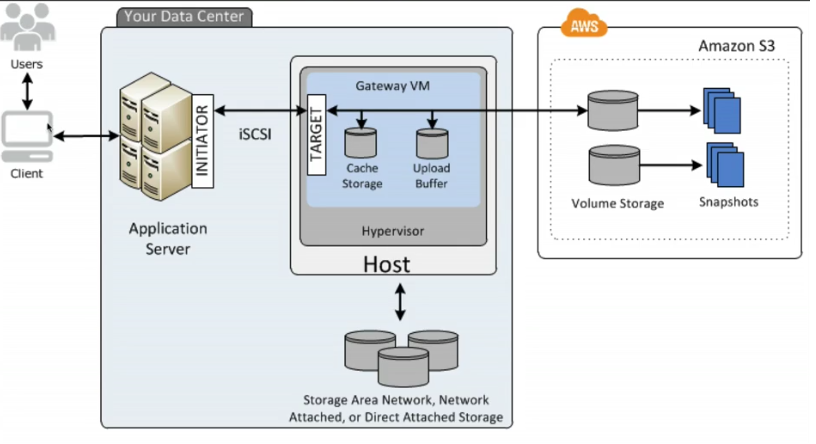
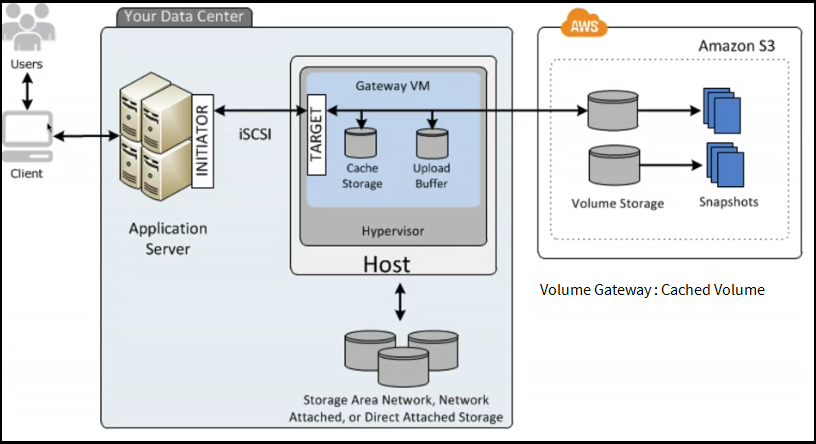
readme++

Changed region(s): [[0.0, 0.0, 1.0, 1.0], [0.6434, 0.6441, 0.9498, 0.6734]]

diff --git a/README.md b/README.md
@@ -1,6 +1,6 @@
 ![](https://github.com/inbravo/aws-feature-set/blob/master/mind-maps/aws-all-services/aws-core-dimensions.jpg)
 
-# Core AWS Dimensions
+# AWS Reference
 
 - **Security & Identity**
 	-	[**IAM**](https://github.com/inbravo/aws-feature-set#-iam--identity--access-management) : How you setup and assign users / groups etc
@@ -406,13 +406,13 @@ The following are examples of problems that can cause instance status checks to 
 - The virtual appliance will asynchronously replicate information up to S3 or Glacier
 - Can be downloaded as a VM  VMware ESXi / Hyper-V
 
-### Storage Gateway Type : File Gateway (NFS) 
+#### File Gateway (**NFS**) 
 - Store files in S3  Word, Pictures, PDFs
 - Accessed using network file system (NFS)
 
-![](https://github.com/inbravo/aws-feature-set/blob/master/images/aws/file-gateway.png) 
+![](https://github.com/inbravo/aws-feature-set/blob/master/images/cloudguru/file-gateway.png) 
 
-### Storage Gateway Type : Volume Gateway (**iSCSI**) 
+#### Volume Gateway (**iSCSI**) 
 - Block based storage
 - Presents applications with disk volumes using iSCSI protocol
 - They take virtual hard disks on premise and back them up to virtual hard disks on AWS
@@ -428,10 +428,10 @@ The following are examples of problems that can cause instance status checks to 
 ![](https://github.com/inbravo/aws-feature-set/blob/master/images/cloudguru/volume-gateway.png) 
 ![](https://github.com/inbravo/aws-feature-set/blob/master/images/cloudguru/volume-gateway-cached.png) 
 	
-### Storage Gateway Type : Volume Tape Gateway(**VTL**) 
-- Gateway Virtual Tape Library (VTL) : Backup and Archiving solution
+#### Volume Tape Gateway(**VTL**) 
 - Create tapes and send to S3
-- You can use existing backup applications like NetBackup, Backup Exec, and Veam etc
+- Gateway Virtual Tape Library (VTL) : Backup and Archiving solution
+- You can use existing backup applications like NetBackup, Backup Exec and Veeam etc
 
 ![](https://github.com/inbravo/aws-feature-set/blob/master/images/cloudguru/tape-gateway.png) 
 	
@@ -664,7 +664,9 @@ Exam Tips
 - ElastiCache is used if DB is primarily read-heavy and not frequently changing
 - Use Redshift – if application is slow due to constant OLAP transactions on top of OLTP focused DB
 
-## Aurora
+## ![](https://github.com/inbravo/aws-feature-set/blob/master/images/aws/aurora.png) [Aurora](https://aws.amazon.com/aurora)
+
+### Aurora Features 
 - Bespoke Database Engine
 - It is MySQL compatible
 - However you can’t download and install on your workstation
@@ -712,6 +714,8 @@ With RDS scaling is not so easy, you have to use a bigger instance or add read r
 - CloudWatch logs helps you monitor EC2 instance/application/system logs. Logs send data to CloudWatch
 - Standard monitoring 5 mins. Detailed monitoring 1 minute.
 - CloudWatch is for logging. CloudTrail is for auditing your calls
+- CloudWatch keep 2 weeks of metric data
+- CloudWatch metrics provide hypervisor visible metrics
 
 # ![](https://github.com/inbravo/aws-feature-set/blob/master/images/aws/vpc.png) [VPC](https://aws.amazon.com/vpc)
 
@@ -730,8 +734,11 @@ With RDS scaling is not so easy, you have to use a bigger instance or add read r
 - Each subnet is always mapped to an availability zone. 1 subnet = 1 AZ
 - Only one internet gateway per VPC. [Trick question – improve performance by adding Gateway – just not possible]
 - Security groups are stateful. Network ACLs are stateless.
-  
-By default, how many VPCs am I allowed in each AWS Region? == 5
+- The default limit for the number of Amazon VPCs that a customer may have in a region is 5
+- IPsec is the security protocol supported by Amazon VPC
+- An Amazon VPC endpoint enables you to create a private connection between your Amazon VPC and another AWS service without requiring access over the Internet or through a NAT device, VPN connection, or AWS Direct Connect
+- Attaching an ENI associated with a different subnet to an instance can make the instance dual-homed
+
 Typical Private IP address ranges – not publically routable.
   - 10.0.0.0 - 10.255.255.255 (10/8 prefix)
   - 172.16.0.0 - 172.31.255.255 (172.16/12 prefix)
@@ -740,28 +747,28 @@ VPC Diagram - Public and Private subnets ![VPC with Public and Private subnets](
 To use AWS Stencils download them at the [AWS Simple Icons for Architecture Diagrams](https://aws.amazon.com/architecture/icons/) site
 
 ### Default v/s Custom VPC
-  - When you create an account a default VPC is created for you in each Region.
-  - All subnets in default VPC have a route out to the internet
-  - Each EC2 instance in default VPC will have a public and private IP address
-  - If you delete default VPC, only way to restore it is by contacting Amazon
+- When you create an account a default VPC is created for you in each Region.
+- All subnets in default VPC have a route out to the internet
+- Each EC2 instance in default VPC will have a public and private IP address
+- If you delete default VPC, only way to restore it is by contacting Amazon
   
 ### Custom VPC Info
-  - Default Security group, network ACL & route table are created for each custom VPC you create.
-  - Doesn’t create subnets or internet gateways out of the box.
-  - In each VPC you create, 5 IP addresses are reserved by AWS for itself. First 4 and last IP in the CIDR block.
-  - You can't change the size of a VPC after you create it. If your VPC is too small to meet your needs, create a new, larger VPC, and then migrate your instances to the new VPC. To do this, create AMIs from your running instances, and then launch replacement instances in your new, larger VPC. You can then terminate your old instances, and delete your smaller VPC. 
-  - You can’t attached multiple Internet Gateways to the VPC to boost performance.
-  - When creating VPCs do not modify default route table to add your custom rules. If you modify the default route, it will affect all instances. Create a new route table for customization
+- Default Security group, network ACL & route table are created for each custom VPC you create.
+- Doesn’t create subnets or internet gateways out of the box.
+- In each VPC you create, 5 IP addresses are reserved by AWS for itself. First 4 and last IP in the CIDR block.
+- You can't change the size of a VPC after you create it. If your VPC is too small to meet your needs, create a new, larger VPC, and then migrate your instances to the new VPC. To do this, create AMIs from your running instances, and then launch replacement instances in your new, larger VPC. You can then terminate your old instances, and delete your smaller VPC. 
+- You can’t attached multiple Internet Gateways to the VPC to boost performance.
+- When creating VPCs do not modify default route table to add your custom rules. If you modify the default route, it will affect all instances. Create a new route table for customization
   
 ### NAT Instance & NAT Gateway
-  - NAT Instance is one EC2 instance. You are responsible for performance management, scale out and security groups. NAT Gateway is a managed service.
-  - On NAT instance, *remember to disable source/destination IP check*. This is required to allow private subnet internet connectivity. This is not required on NAT Gateway.
-  - Allow both HTTP and HTTPS access on security groups associated with NAT instances. Security groups are always associated with NAT Instances.
-  - Both *NAT Instance and NAT Gateways are deployed to public subnet*. Elastic IP has to be added to NAT Instance. NAT Gateway is automatically assigned a public IP.
-  - In VPC, update default route table to allow connectivity from Private subnet to NAT Instance and Gateway
-  - NAT instance is single point of failure. You can place NAT instance behind Auto Scaling group, multiple subnets in different AZs and scripted failover. To improve performance increase the size of the NAT instance to allow for higher throughput.
-  - You can use Network ACLs to control traffic for both NAT Instance and Gateway.
-  - NAT Gateways scale up to 10GBps. No need to disable source/ destination checks on Gateways.
+- NAT Instance is one EC2 instance. You are responsible for performance management, scale out and security groups. NAT Gateway is a managed service.
+- On NAT instance, *remember to disable source/destination IP check*. This is required to allow private subnet internet connectivity. This is not required on NAT Gateway.
+- Allow both HTTP and HTTPS access on security groups associated with NAT instances. Security groups are always associated with NAT Instances.
+- Both *NAT Instance and NAT Gateways are deployed to public subnet*. Elastic IP has to be added to NAT Instance. NAT Gateway is automatically assigned a public IP.
+- In VPC, update default route table to allow connectivity from Private subnet to NAT Instance and Gateway
+- NAT instance is single point of failure. You can place NAT instance behind Auto Scaling group, multiple subnets in different AZs and scripted failover. To improve performance increase the size of the NAT instance to allow for higher throughput.
+- You can use Network ACLs to control traffic for both NAT Instance and Gateway.
+- NAT Gateways scale up to 10GBps. No need to disable source/ destination checks on Gateways.
 
 ### Network ACLs & Security Groups
 |Security Group| Network ACL|
@@ -771,27 +778,28 @@ To use AWS Stencils download them at the [AWS Simple Icons for Architecture Diag
 |Is stateful: Return traffic is automatically allowed, regardless of any rules| Is stateless: Return traffic must be explicitly allowed by rules|
 |We evaluate all rules before deciding whether to allow traffic| We process rules in number order when deciding whether to allow traffic. Lower order rules take effect in case of conflict with higher order rules.|
 |Applies to an instance only if someone specifies the security group when launching the instance, or associates the security group with the instance later on| Automatically applies to all instances in the subnets it's associated with (backup layer of defense, so you don't have to rely on someone specifying the security group)|
-  - With default ACL, all inbound and outbound traffic is allowed automatically
-  - When custom ACL, all inbound and outbound traffic is denied by default
-  - 1 subnet <=> 1 AZ <=> 1 ACL.  ACLs can be associated to only 1 subnet at a time. You can reassign to another subnet. If subnet is not associated with an ACL, the default ACL is applied
-  - AWS Recommends adding ACL rules in increments of 100s
-  - Ephemeral ports – Allow inbound /outbound traffic from 1024 – 65535. As clients can initiate outbound connection from any random port. Ports < 1024 reserved for super user access
-  - If you have to block a specific IP address / range, use ACLs instead of security groups. SGs can’t deny traffic – they only allow
+- With default ACL, all inbound and outbound traffic is allowed automatically
+- When custom ACL, all inbound and outbound traffic is denied by default
+- 1 subnet <=> 1 AZ <=> 1 ACL.  ACLs can be associated to only 1 subnet at a time. You can reassign to another subnet. If subnet is not associated with an ACL, the default ACL is applied
+- AWS Recommends adding ACL rules in increments of 100s
+- Ephemeral ports – Allow inbound /outbound traffic from 1024 – 65535. As clients can initiate outbound connection from any random port. Ports < 1024 reserved for super user access
+- If you have to block a specific IP address / range, use ACLs instead of security groups. SGs can’t deny traffic – they only allow
 
 ### Custom VPC & ELB
-  - To have HA in general or for ELB, ensure that you have at-least 2 public and or private subnets in different availability zones
+- To have HA in general or for ELB, ensure that you have at-least 2 public and or private subnets in different availability zones
+- Elastic Load Balancing supports Internet-facing, internal, and HTTPS load balancers
 
 ### NAT & Bastion
-  - You cannot use NAT instance to SSH / RDP into private subnet. For that Bastion (Jump Box) is required
-  - Bastions are used for secure administrative tasks only. Bastions are placed in Public subnets and connect to private subnets via private IP
-  - For Bastion HA, have multiple Bastions in different AZs – at least 2 public subnets. Auto scaling in multiple AZ, route 53 doing health checks
-  - NAT instance is used to provide internet connectivity to private subnets
+- You cannot use NAT instance to SSH / RDP into private subnet. For that Bastion (Jump Box) is required
+- Bastions are used for secure administrative tasks only. Bastions are placed in Public subnets and connect to private subnets via private IP
+- For Bastion HA, have multiple Bastions in different AZs – at least 2 public subnets. Auto scaling in multiple AZ, route 53 doing health checks
+- NAT instance is used to provide internet connectivity to private subnets
   
 ### VPC Flow Logs
-  - Enable Flow Logs for Custom VPC to see all traffic.
-  - Enable to capture IP traffic flow information for the NICs of your resources. All information is reported to CloudWatch
-  - Create IAM role to allow all logs to flow into CloudWatch
-  - Create log group in CloudWatch and inside that create stream where you can then see all the traffic flow.
+- Enable Flow Logs for Custom VPC to see all traffic.
+- Enable to capture IP traffic flow information for the NICs of your resources. All information is reported to CloudWatch
+- Create IAM role to allow all logs to flow into CloudWatch
+- Create log group in CloudWatch and inside that create stream where you can then see all the traffic flow.
 
 ## ![](https://github.com/inbravo/aws-feature-set/blob/master/images/aws/53.png)  [Route 53](https://aws.amazon.com/route53)
 
